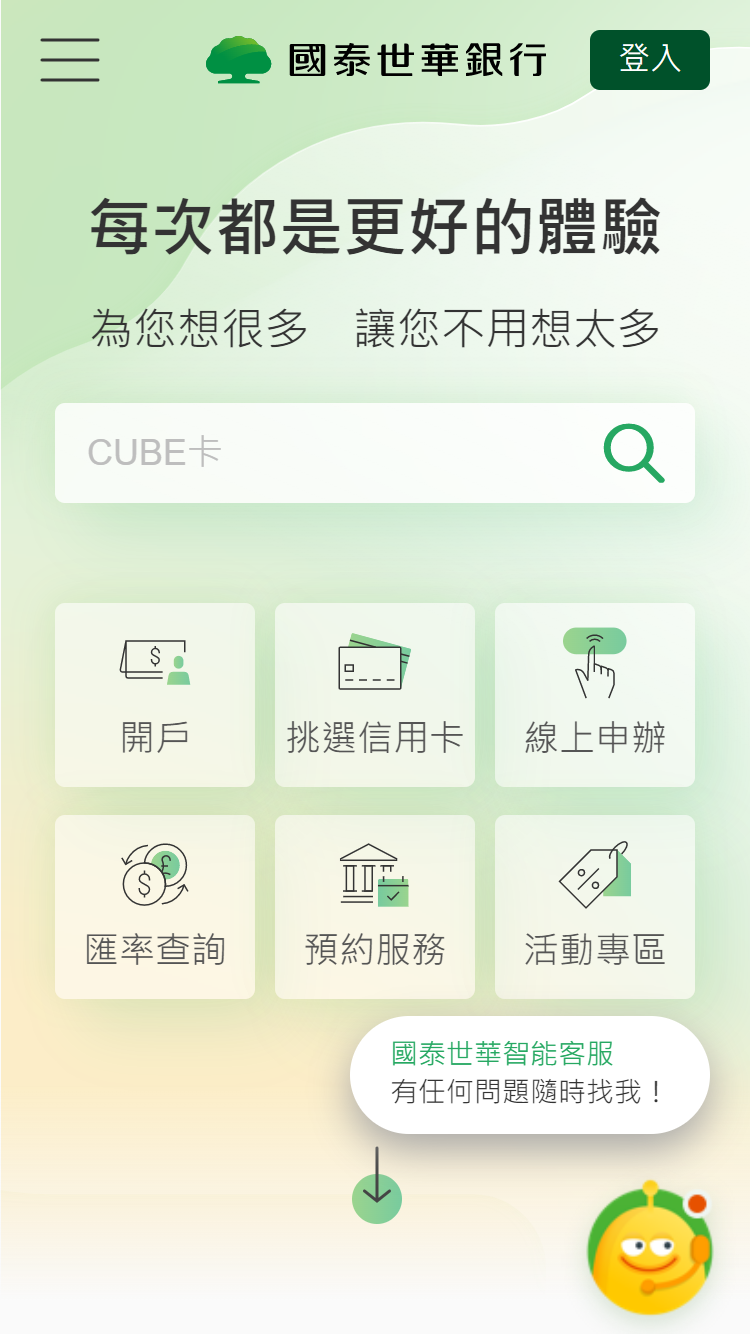
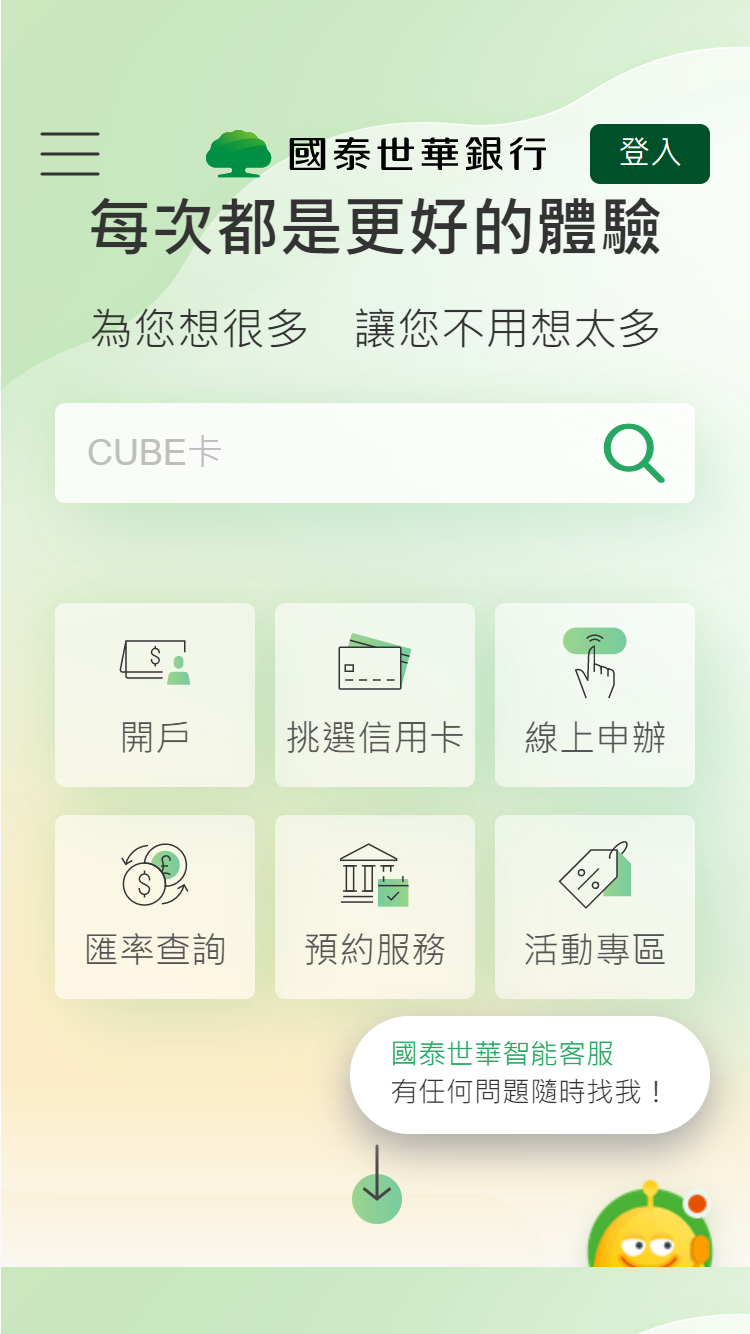
選擇每個信用卡block ok

diff --git a/main.py b/main.py
@@ -1,7 +1,10 @@
+import time
+
 from selenium.webdriver.common.by import By
 from selenium.webdriver.support import expected_conditions
 
 from mobile_driver_config import driver, wait
+from scroll_function import scroll_down_until_element_visible_top
 
 
 def test_for_cathay():
@@ -32,3 +35,24 @@ def test_for_cathay():
 
     # 點擊卡片介紹
     driver.find_element(By.XPATH, credit_card_menu_xpath + " and contains(@class, 'mbOnly')]/parent::*//a[text()='卡片介紹']").click()
+
+    # 截圖
+    # 1. 找出所有anchor的id
+    anchor_id_element_list = driver.find_elements(By.XPATH, "//*[contains(@class, 'anchor')]//*[contains(@data-anchor-btn, 'blockname')]")
+    anchor_id_list = [anchor_id_element.get_attribute('data-anchor-btn') for anchor_id_element in anchor_id_element_list]
+    for anchor_id in anchor_id_list:
+        print(anchor_id)
+        driver.find_element(By.XPATH, "//*[contains(@class, 'anchor')]//*[@data-anchor-btn='" + anchor_id + "']").click()
+        time.sleep(2)  # todo: wait
+        # locator = (By.XPATH, "//*[contains(@class, 'anchor')]//*[@data-anchor-btn='" + anchor_id + "' and contains(@class, 'active')]")
+        # wait.until(expected_conditions.presence_of_element_located(locator))
+        # locator = (By.XPATH, "//section[@data-anchor-block='" + anchor_id + "']")
+        # wait.until(expected_conditions.visibility_of_element_located(locator))
+        # 將section移到畫面上方
+        section_xpath = "//section[@data-anchor-block='" + anchor_id + "']"
+        scroll_down_until_element_visible_top(section_xpath)
+        time.sleep(1)
+
+    # 2. 每個tab點了後，滑到最上面.
+    # 3. 點每一個slide
+    # 4. 確認當前title有沒有停發，如果有截圖

diff --git a/scroll_function.py b/scroll_function.py
@@ -1,0 +1,24 @@
+import time
+from selenium.webdriver.common.by import By
+
+from mobile_driver_config import actions, driver
+
+
+def focus_element_by_click(element_xpath):
+    actions.move_to_element(driver.find_element(By.XPATH, element_xpath)).click().perform()
+    time.sleep(1)
+
+
+def scroll_down_until_element_visible(element_xpath):  # 前台
+    driver.execute_script("return arguments[0].scrollIntoView();", driver.find_element(By.XPATH, element_xpath))
+    time.sleep(1)
+
+
+def scroll_down_until_element_visible_top(element_xpath):  # 前台 true: 頂端對齊
+    driver.execute_script("return arguments[0].scrollIntoView(true);", driver.find_element(By.XPATH, element_xpath))
+    time.sleep(1)
+
+
+def scroll_down_until_element_visible_bottom(element_xpath):  # 前台 false: 底端對底端
+    driver.execute_script("return arguments[0].scrollIntoView(false);", driver.find_element(By.XPATH, element_xpath))
+    time.sleep(1)
